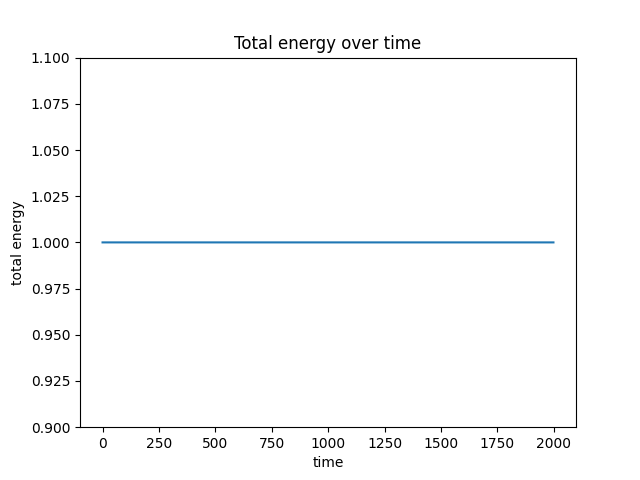
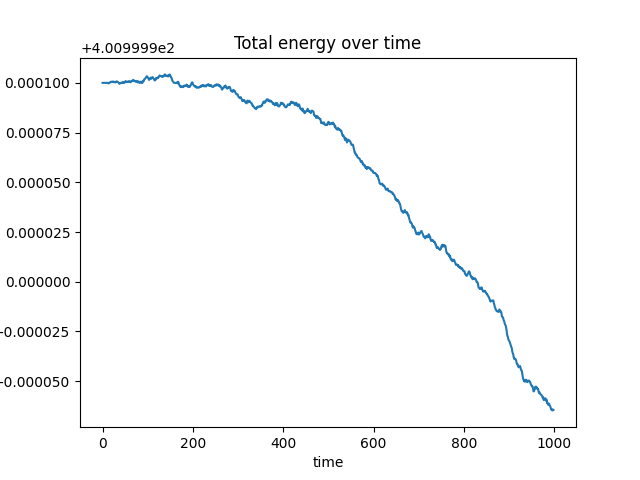
starts diffusing near end before heat reaches it

diff --git a/heat_solver.py b/heat_solver.py
@@ -4,9 +4,9 @@ from generate_maze import create_maze
 from plot_util import *
 
 # parameters
-seed = 12
-L = 8
-T = 2000
+seed = 18
+L = 20
+T = 1000
 alpha = 1
 dx = 1
 
@@ -27,11 +27,12 @@ end = idx[end_idx]
 # set insulating boundary conditions
 u = maze.copy()
 u[u == 1] = -1.0
-u[u == 0] = 0.0
+u[u == 0] = 0.5
 u = np.tile(u, (T, 1, 1))
 
 # Set the initial conditions
 u[0, start[0], start[1]] = 1.0
+u[0, end[0], end[1]] = 0.0
 
 def SolveHeat(u):
     E = np.zeros((T-1))
@@ -57,6 +58,8 @@ def SolveHeat(u):
         # enforce periodic boundary conditions
         u[k+1,start[0],start[1]] += u[k+1,end[0],end[1]] # generator
         u[k+1,end[0],end[1]] = 0.0 # sink
+        #u[k+1,start[0],start[1]] = 1.0 # generator
+        #u[k+1,end[0],end[1]] = 0.0 # sink
     
     return u, E
 

diff --git a/plot_util.py b/plot_util.py
@@ -62,7 +62,7 @@ def PlotEnergy(E_k):
     plt.title('Total energy over time')
     plt.xlabel('time')
     plt.ylabel('total energy')
-    plt.ylim([0.9, 1.1])
+    #plt.ylim([0.9, 1.1])
     plt.plot(E_k)
     plt.savefig("energy.png")
 
